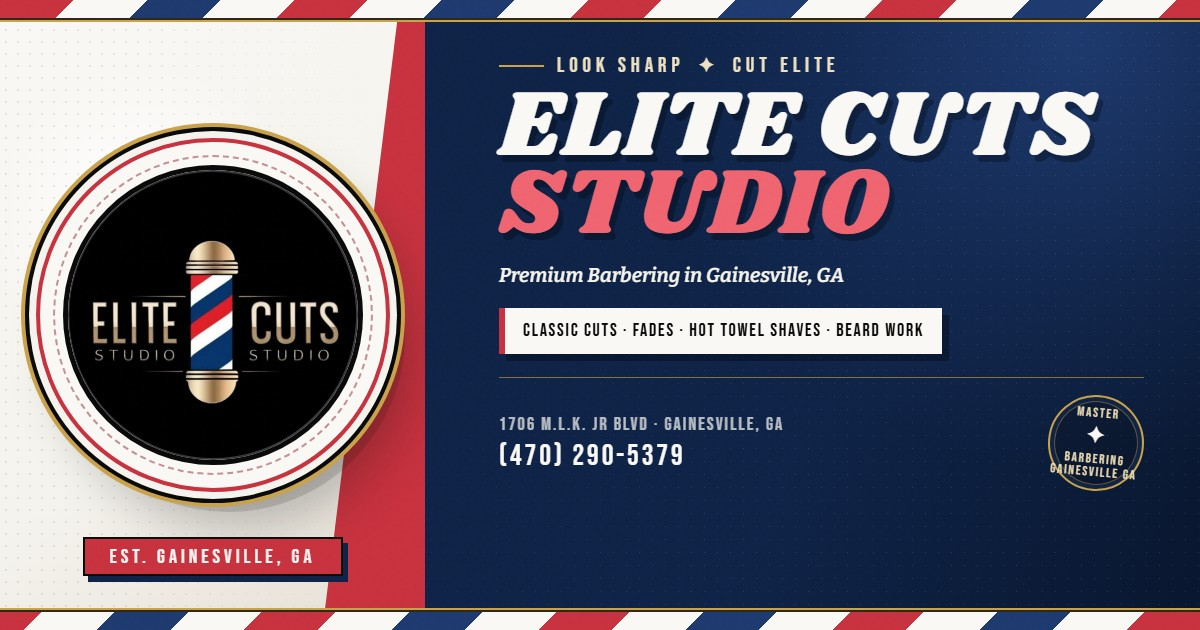
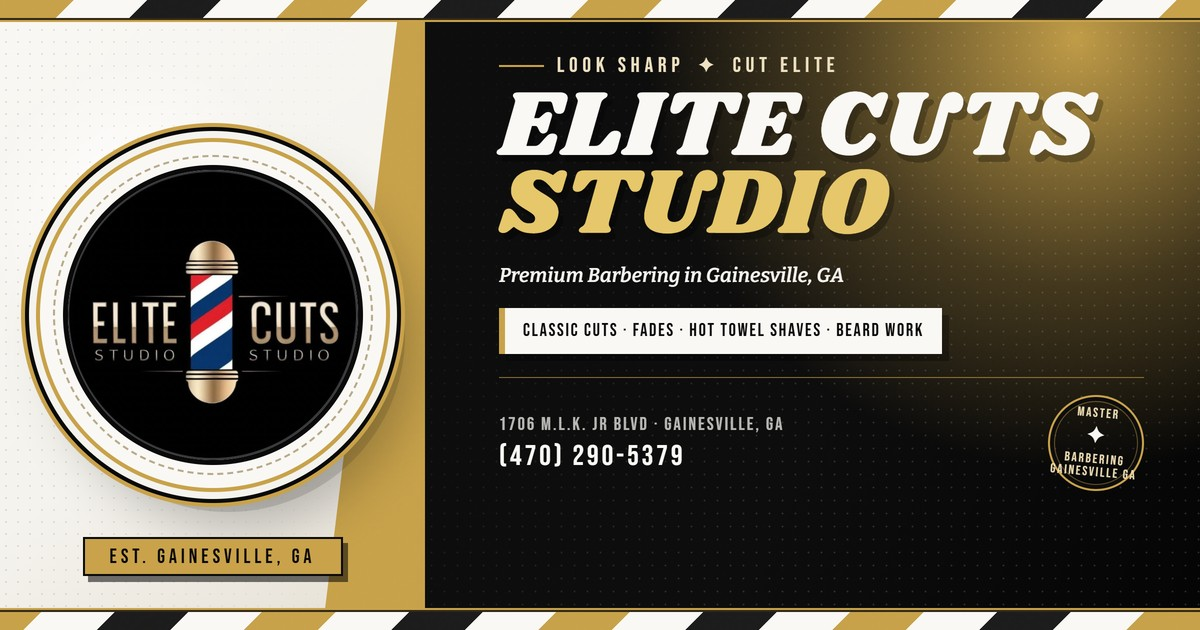
fix(theme): re-theme OG social image to gold/black/white + kill leftover red text-shadows
- Regenerate og-social.jpg from re-themed og-card.html (was still navy/red) -> gold/black/white
- Fix hero 'Look Sharp' display font: red letterpress shadow -> gold (the off-looking font on mobile)
- Fix leftover maroon inset shadow in appointments
- Bump OG image cache version to 20260712 so social scrapers re-fetch

diff --git a/assets/og-card.html b/assets/og-card.html
@@ -9,10 +9,10 @@
   <link href="https://fonts.googleapis.com/css2?family=Bebas+Neue&family=Bitter:ital,wght@0,400;0,700;1,600&family=Shrikhand&display=swap" rel="stylesheet">
   <style>
     :root {
-      --red: #c8323f;
-      --red-deep: #8a1f28;
-      --blue: #1e3a6f;
-      --blue-dark: #0f2347;
+      --red: #c8a24a;
+      --red-deep: #8a6a24;
+      --blue: #1c1c1c;
+      --blue-dark: #0d0d0d;
       --cream: #f5f3ee;
       --cream-light: #faf8f4;
       --ink: #0a0a0a;
@@ -76,7 +76,7 @@
       position: absolute;
       inset: 0;
       opacity: .28;
-      background-image: radial-gradient(rgba(15,35,71,.42) .9px, transparent .9px);
+      background-image: radial-gradient(rgba(10, 10, 10,.42) .9px, transparent .9px);
       background-size: 12px 12px;
       mask-image: linear-gradient(90deg, #000, transparent 94%);
     }
@@ -115,7 +115,7 @@
       content: "";
       position: absolute;
       inset: 13px;
-      border: 2px dashed rgba(138,31,40,.48);
+      border: 2px dashed rgba(110, 84, 23,.48);
       border-radius: 50%;
     }
 
@@ -137,10 +137,10 @@
       transform: translateX(-50%);
       width: 260px;
       padding: 8px 12px 7px;
-      color: var(--cream-light);
-      background: var(--red);
+      color: var(--ink);
+      background: var(--gold);
       border: 2px solid var(--ink);
-      box-shadow: 5px 6px 0 var(--blue-dark);
+      box-shadow: 5px 6px 0 rgba(0,0,0,.55);
       font: 20px/1 "Bebas Neue", sans-serif;
       letter-spacing: 4px;
       text-align: center;
@@ -153,8 +153,8 @@
       padding: 55px 56px 46px 74px;
       color: var(--cream-light);
       background:
-        radial-gradient(circle at 84% 6%, rgba(30,58,111,.96) 0, rgba(30,58,111,.3) 28%, transparent 49%),
-        linear-gradient(115deg, var(--blue-dark) 0 55%, #09162e 100%);
+        radial-gradient(circle at 84% 6%, rgba(200, 162, 74,.96) 0, rgba(200, 162, 74,.3) 28%, transparent 49%),
+        linear-gradient(115deg, var(--blue-dark) 0 55%, #050505 100%);
     }
 
     .content::before {
@@ -176,12 +176,12 @@
       bottom: -235px;
       width: 520px;
       height: 520px;
-      border: 2px solid rgba(200,50,63,.26);
+      border: 2px solid rgba(200, 162, 74,.26);
       border-radius: 50%;
       box-shadow:
-        0 0 0 34px rgba(200,50,63,.07),
+        0 0 0 34px rgba(200, 162, 74,.07),
         0 0 0 66px rgba(201,162,74,.055),
-        0 0 0 100px rgba(200,50,63,.035);
+        0 0 0 100px rgba(200, 162, 74,.035);
     }
 
     .eyebrow {
@@ -217,7 +217,7 @@
     }
 
     h1 .elite { display: block; color: var(--cream-light); }
-    h1 .studio { display: block; color: #ef6470; }
+    h1 .studio { display: block; color: #e6c76a; }
 
     .tagline {
       position: relative;

diff --git a/index.html b/index.html
@@ -27,8 +27,8 @@
   <meta property="og:title" content="Elite Cuts Studio | Gainesville, GA">
   <meta property="og:description"
     content="Premium haircuts, fades, and hot towel shaves at Elite Cuts Studio in Gainesville, GA. Master barber experience on M.L.K. Jr Blvd. Book your sharpest cut today.">
-  <meta property="og:image" content="https://forge-dev-studio.github.io/elite-cuts-studio/assets/og-social.jpg?v=20260711">
-  <meta property="og:image:secure_url" content="https://forge-dev-studio.github.io/elite-cuts-studio/assets/og-social.jpg?v=20260711">
+  <meta property="og:image" content="https://forge-dev-studio.github.io/elite-cuts-studio/assets/og-social.jpg?v=20260712">
+  <meta property="og:image:secure_url" content="https://forge-dev-studio.github.io/elite-cuts-studio/assets/og-social.jpg?v=20260712">
   <meta property="og:image:type" content="image/jpeg">
   <meta property="og:image:width" content="1200">
   <meta property="og:image:height" content="630">
@@ -41,7 +41,7 @@
   <meta name="twitter:title" content="Elite Cuts Studio | Gainesville, GA">
   <meta name="twitter:description"
     content="Premium haircuts, fades, and hot towel shaves in Gainesville, GA. Book your sharpest cut today.">
-  <meta name="twitter:image" content="https://forge-dev-studio.github.io/elite-cuts-studio/assets/og-social.jpg?v=20260711">
+  <meta name="twitter:image" content="https://forge-dev-studio.github.io/elite-cuts-studio/assets/og-social.jpg?v=20260712">
   <meta name="twitter:image:alt" content="Elite Cuts Studio — premium barbering in Gainesville, GA.">
 
   <!-- LOCAL BUSINESS STRUCTURED DATA (JSON-LD) -->
@@ -3445,10 +3445,10 @@
     .hero-line1 {
       text-shadow:
         1px 1px 0 rgba(255, 255, 255, .16),
-        2px 2px 0 rgba(92, 18, 26, .48),
-        3px 3px 0 rgba(82, 15, 22, .42),
-        4px 4px 0 rgba(66, 12, 18, .34),
-        7px 9px 16px rgba(10, 10, 10, .2);
+        2px 2px 0 rgba(110, 84, 23, .5),
+        3px 3px 0 rgba(90, 68, 18, .44),
+        4px 4px 0 rgba(70, 53, 15, .36),
+        7px 9px 16px rgba(10, 10, 10, .28);
     }
 
     .hero-line2 {

diff --git a/appointments.html b/appointments.html
@@ -17,7 +17,7 @@
   <meta property="og:title" content="Book Now | Elite Cuts Studio">
   <meta property="og:description"
     content="Reserve your spot for a premium haircut or hot towel shave. Classic 70s aesthetics meet modern barbering excellence.">
-  <meta property="og:image" content="https://forge-dev-studio.github.io/elite-cuts-studio/assets/og-social.jpg?v=20260711">
+  <meta property="og:image" content="https://forge-dev-studio.github.io/elite-cuts-studio/assets/og-social.jpg?v=20260712">
   <meta property="og:image:width" content="1200">
   <meta property="og:image:height" content="630">
   <meta property="og:image:alt" content="Elite Cuts Studio — premium barbering in Gainesville, GA.">
@@ -761,7 +761,7 @@
       background: linear-gradient(145deg, #ddb45c, #8f6f28);
       box-shadow:
         inset 0 2px 1px rgba(255, 255, 255, .32),
-        inset 0 -7px 11px rgba(61, 6, 14, .28),
+        inset 0 -7px 11px rgba(46, 34, 8, .3),
         0 3px 4px rgba(0, 0, 0, .4),
         0 11px 18px rgba(0, 0, 0, .3),
         0 0 0 4px rgba(200, 162, 74, .1);

diff --git a/contact.html b/contact.html
@@ -13,7 +13,7 @@
   <!-- SOCIAL SHARE (OG TAGS) -->
   <meta property="og:title" content="Contact | Elite Cuts Studio">
   <meta property="og:description" content="Contact Elite Cuts Studio in Gainesville, GA. Call, text, or book your appointment. 1706 M.L.K. Jr Blvd.">
-  <meta property="og:image" content="https://forge-dev-studio.github.io/elite-cuts-studio/assets/og-social.jpg?v=20260711">
+  <meta property="og:image" content="https://forge-dev-studio.github.io/elite-cuts-studio/assets/og-social.jpg?v=20260712">
   <meta property="og:image:width" content="1200">
   <meta property="og:image:height" content="630">
   <meta property="og:image:alt" content="Elite Cuts Studio — premium barbering in Gainesville, GA.">